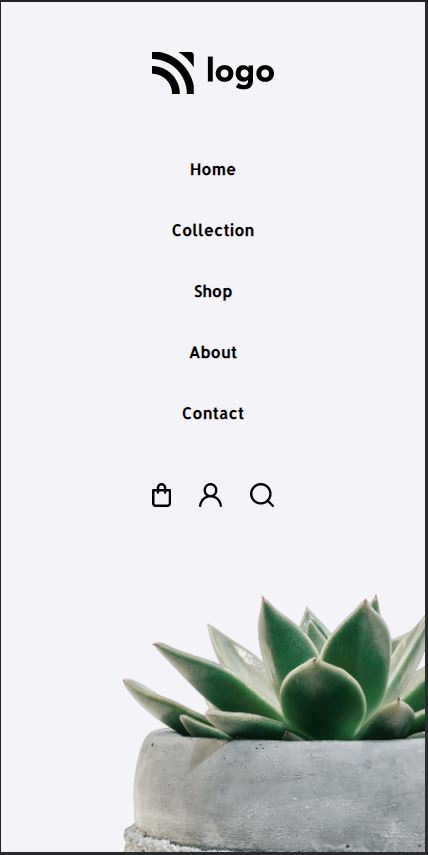
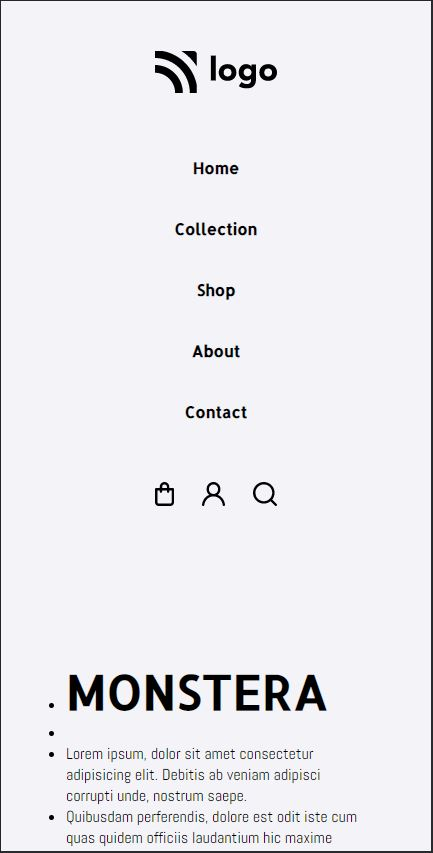
Changed flex-direction

diff --git a/index.html b/index.html
@@ -246,7 +246,7 @@
       }
 
       #midWhole {
-       flex-direction: column-reverse;
+       flex-direction: column;
        justify-content: center;
        align-items: center;
       }
